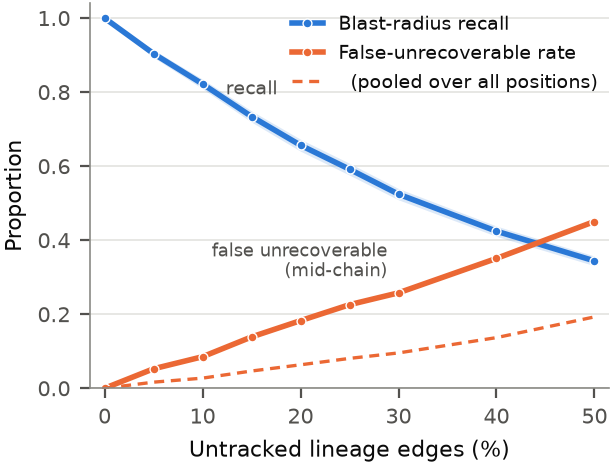
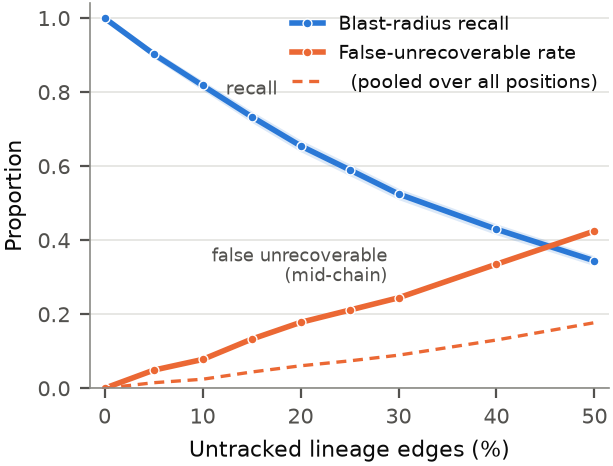
Generate the README figures, fix its stale numbers and retracted claims
- make_figures.py never wrote the PNGs the README embeds, so they aged
  relative to the PDFs with nothing to catch it. Both are now emitted from the
  same call.
- README carried the previous run's numbers, the retracted claim that a
  signature cannot express a relation, the broadened LAION recommendation, and
  the superseded 3.8% precision cost.
- evaluate.py compared the conservative rule against PRECISE-rule true
  statuses, so it was testing something weaker than Proposition 2. It now
  compares conservative against conservative.
- sweep.py printed FAIL for a failed harness assertion and exited zero. It now
  raises, so a broken harness cannot produce results that look fine.
- A comment still described verdict disagreement as "the more dangerous
  error", which is the framing the last review retracted.

diff --git a/evaluate.py b/evaluate.py
@@ -81,7 +81,8 @@ def evaluate_graphs(true_graph, tracked_graph):
             if bad:
                 unsafe_plans.append(pl["model"])
 
-        # The symmetric error, and the more dangerous one. The tracked graph
+        # Disagreement with a full-graph planner's independently selected
+        # plan. NOT an unsafety measure: unsafe_plans above is that. The tracked graph
         # says a model can be rolled back; the truth is that it cannot, because
         # an edge that would have revealed a compromised merge parent, or the
         # compromise of the target itself, was never recorded. Acting on this
@@ -99,6 +100,12 @@ def evaluate_graphs(true_graph, tracked_graph):
         # asserted.
         strict_plans = recovery_plan(tracked_graph, pz, tracked_affected, strict=True)
         strict_status = {p["model"]: p["status"] for p in strict_plans}
+        # Proposition 2 compares the conservative rule against ITSELF on the
+        # true graph. Comparing it against precise-rule true statuses tests a
+        # different and weaker statement.
+        strict_true_status = {
+            p["model"]: p["status"]
+            for p in recovery_plan(true_graph, pz, true_affected, strict=True)}
         strict_blocked_relaxable = [
             m for m, st in strict_status.items()
             if st == "blocked_on_compromised_merge_parent"
@@ -108,7 +115,7 @@ def evaluate_graphs(true_graph, tracked_graph):
         false_recoverable_strict = [
             p["model"] for p in strict_plans
             if p["status"] == "recoverable_by_rollback"
-            and true_status.get(p["model"]) in (
+            and strict_true_status.get(p["model"]) in (
                 "unrecoverable_by_rollback", "blocked_on_compromised_merge_parent")
         ]
 

diff --git a/sweep.py b/sweep.py
@@ -453,6 +453,11 @@ if __name__ == "__main__":
           "(these test the experiment, not the system)\n")
     for k, v in checks.items():
         print(f"  {'PASS' if v else 'FAIL'}  {k}")
+    # Actually assert. Printing FAIL and exiting zero means a broken harness
+    # produces results that look fine.
+    failed = [k for k, v in checks.items() if not v]
+    if failed:
+        raise SystemExit(f"\nHARNESS ASSERTION FAILED: {failed}")
 
     with open("results/sweep.json", "w") as f:
         json.dump({"drop_rate_sweep": drop_rows,

diff --git a/make_figures.py b/make_figures.py
@@ -155,6 +155,9 @@ if __name__ == "__main__":
     os.makedirs("figures", exist_ok=True)
     fig_degradation()
     fig_criticality()
+    # PNGs for the README, from the same call as the PDFs so they cannot drift.
+    fig_degradation("figures/degradation.png")
+    fig_criticality("figures/criticality.png")
     with open("figures/plotted.json", "w") as f:
         json.dump(PLOTTED, f, indent=2)
     print("wrote figures/plotted.json")

diff --git a/README.md b/README.md
@@ -6,18 +6,20 @@ Reference implementation for the paper *Beyond Detection: A Recovery-Oriented
 Architecture for Compromised AI Model Remediation* (preprint in preparation).
 
 Existing AI supply chain tooling verifies a model artifact at the moment you
-adopt it. Signing answers *"is this artifact what it claims to be."* It cannot
-answer *"what else is affected, and what do I do about it,"* because
-contamination is a relationship between artifacts and a signature is a property
-of one artifact in isolation.
+adopt it. Signing answers *"is this artifact what it claims to be."* It does not
+answer *"what else is affected, and what do I do about it."* Signed provenance
+formats can carry derivation relationships, and SLSA and in-toto already do;
+what verification at adoption time does not provide is the collection, the
+index, or any account of the answer's quality when the record is incomplete.
 
 This prototype addresses what happens afterwards: when a model or dataset is
 discovered to be compromised months later, which downstream models are affected,
 and what can actually be done about each one.
 
 > **Motivating case.** In December 2023 the Stanford Internet Observatory found
-> validated CSAM in LAION-5B and recommended that models trained on it be
-> withdrawn. That recommendation was largely unactionable: no queryable graph
+> validated CSAM in LAION-5B and recommended that Stable Diffusion 1.5 models
+> without safety measures applied be deprecated and their distribution ceased
+> where feasible. That recommendation was largely unactionable: no queryable graph
 > connected the dataset to its derivatives. The query was never the hard part.
 > The graph did not exist.
 ## What it does
@@ -76,7 +78,7 @@ verdicts.
 **A conservative setting makes it provable rather than merely observed.**
 `recovery_plan(..., strict=True)` also treats the rebuild path's own parent as
 blocking, under which a `recoverable` verdict is provably correct. It costs
-precision: 3.8% of its `blocked` verdicts have every off-path parent clean.
+precision: 3.2% of its `blocked` verdicts have every off-path parent clean.
 The precise rule gives that guarantee up and turns out to be safe anyway on
 these graphs.
 
